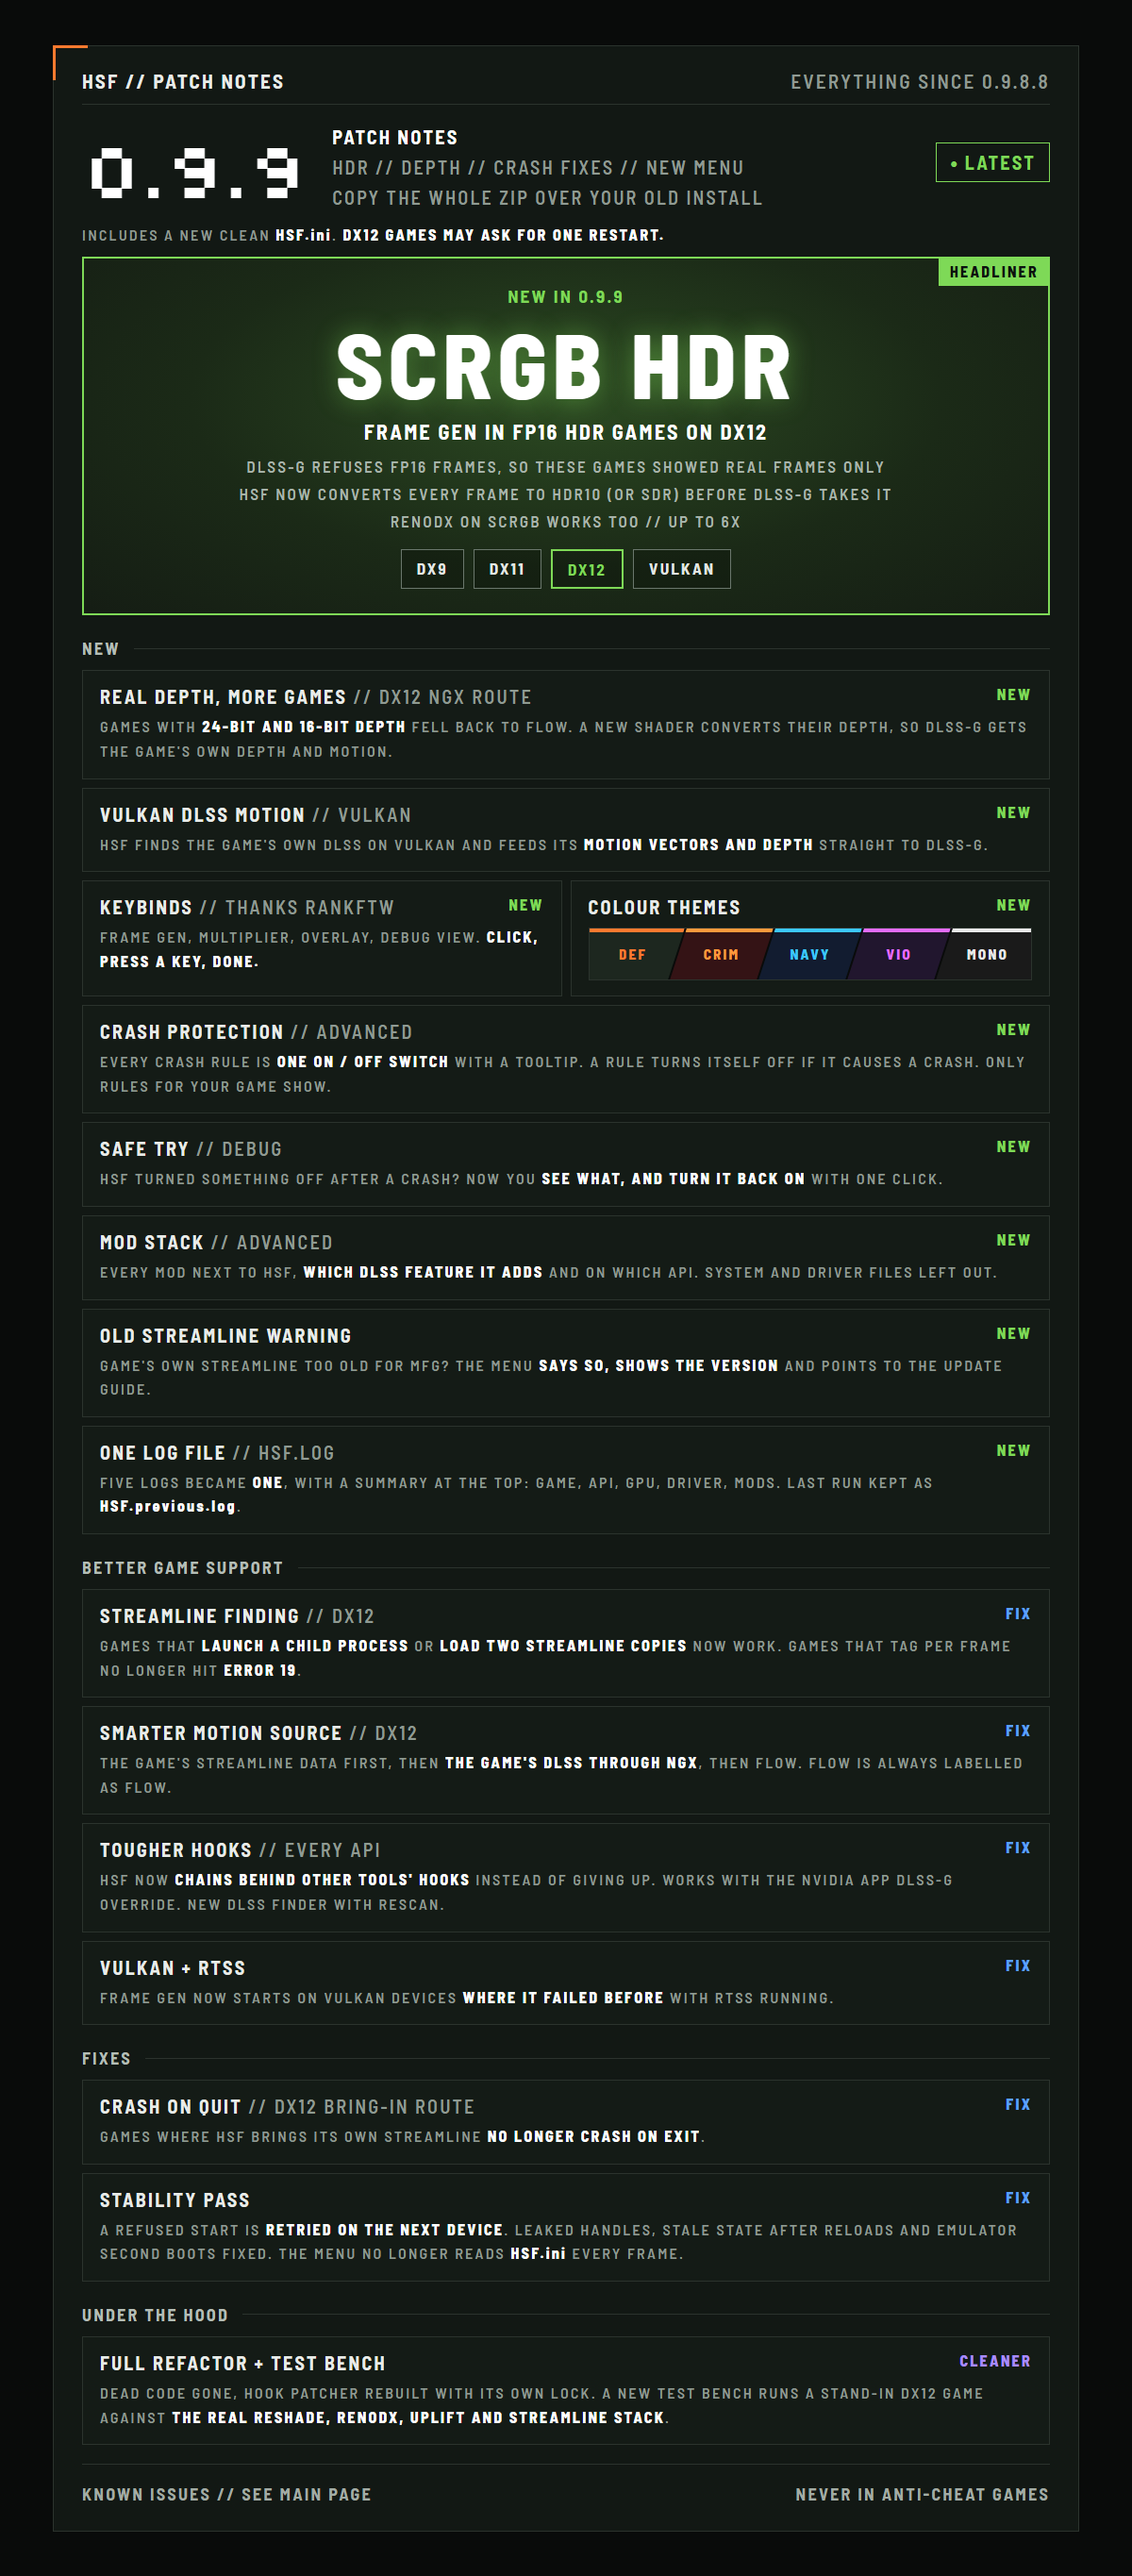
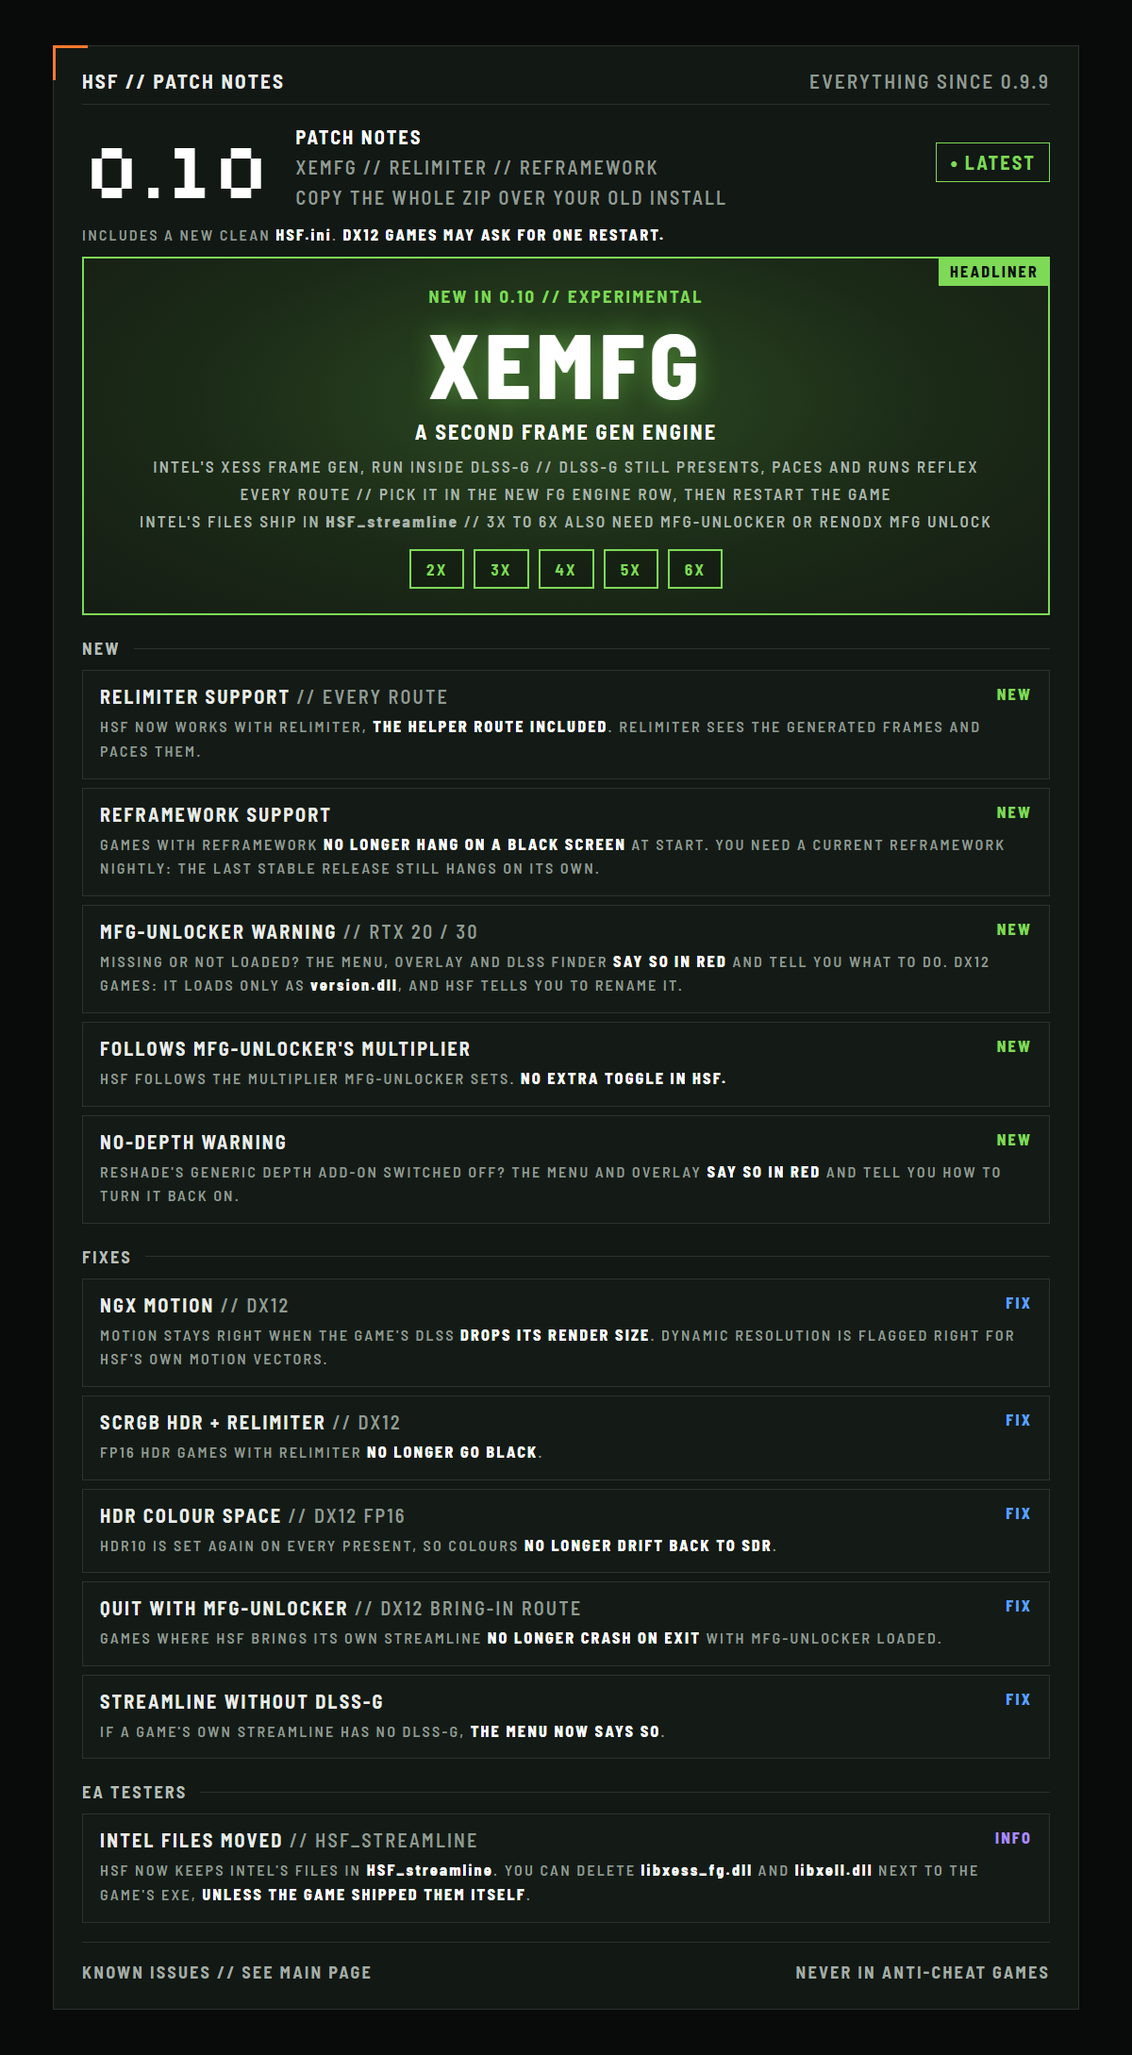
README: 0.10 main and patch-notes posters

Changed region(s): [[0.0617, 0.0312, 0.925, 0.9679], [0.7092, 0.0312, 0.925, 0.1561]]

diff --git a/README.md b/README.md
@@ -11,8 +11,8 @@ A ReShade add-on. Up to 6x. DirectX 9, 11, 12 and Vulkan. 32-bit and 64-bit. SDR
 </p>
 
 <p align="center">
-  <a href="docs/images/hsf-main.png"><img src="docs/images/hsf-main.png" width="32%" alt="HSF 0.9.9 at a glance: hardware, features, install steps, known issues, bug report"></a>
-  <a href="docs/images/hsf-patch.png"><img src="docs/images/hsf-patch.png" width="32%" alt="HSF 0.9.9 patch notes: scRGB HDR, real depth, Vulkan motion, keybinds, colour themes and fixes"></a>
+  <a href="docs/images/hsf-main.png"><img src="docs/images/hsf-main.png" width="32%" alt="HSF 0.10 at a glance: hardware, features, FG engine, install steps, known issues, bug report"></a>
+  <a href="docs/images/hsf-patch.png"><img src="docs/images/hsf-patch.png" width="32%" alt="HSF 0.10 patch notes: XeMFG, ReLimiter and REFramework support, MFG-Unlocker and no-depth warnings, and fixes"></a>
   <a href="docs/images/hsf-roadmap.png"><img src="docs/images/hsf-roadmap.png" width="32%" alt="HSF roadmap: what comes in the next update and after"></a>
 </p>
 <p align="center"><sub>Click a card to see it full size.</sub></p>
